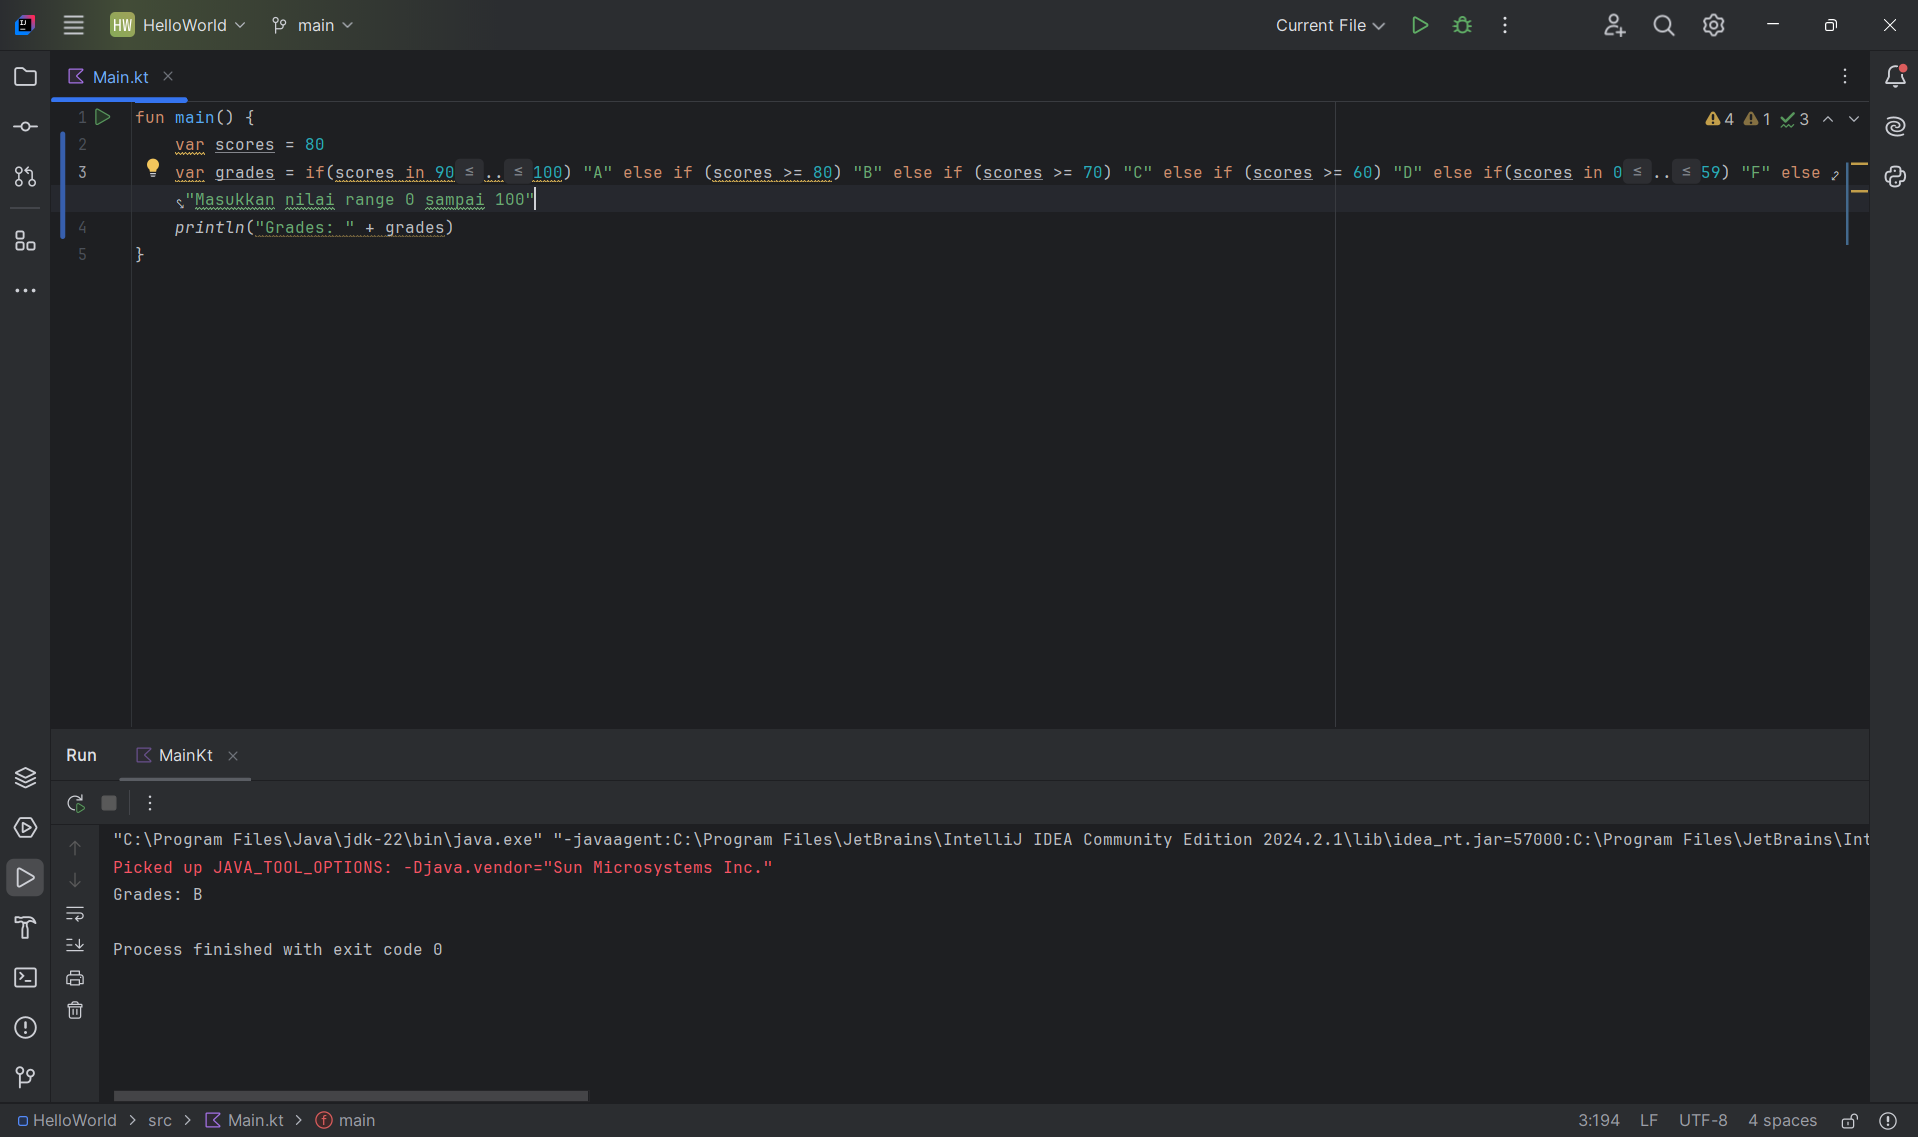
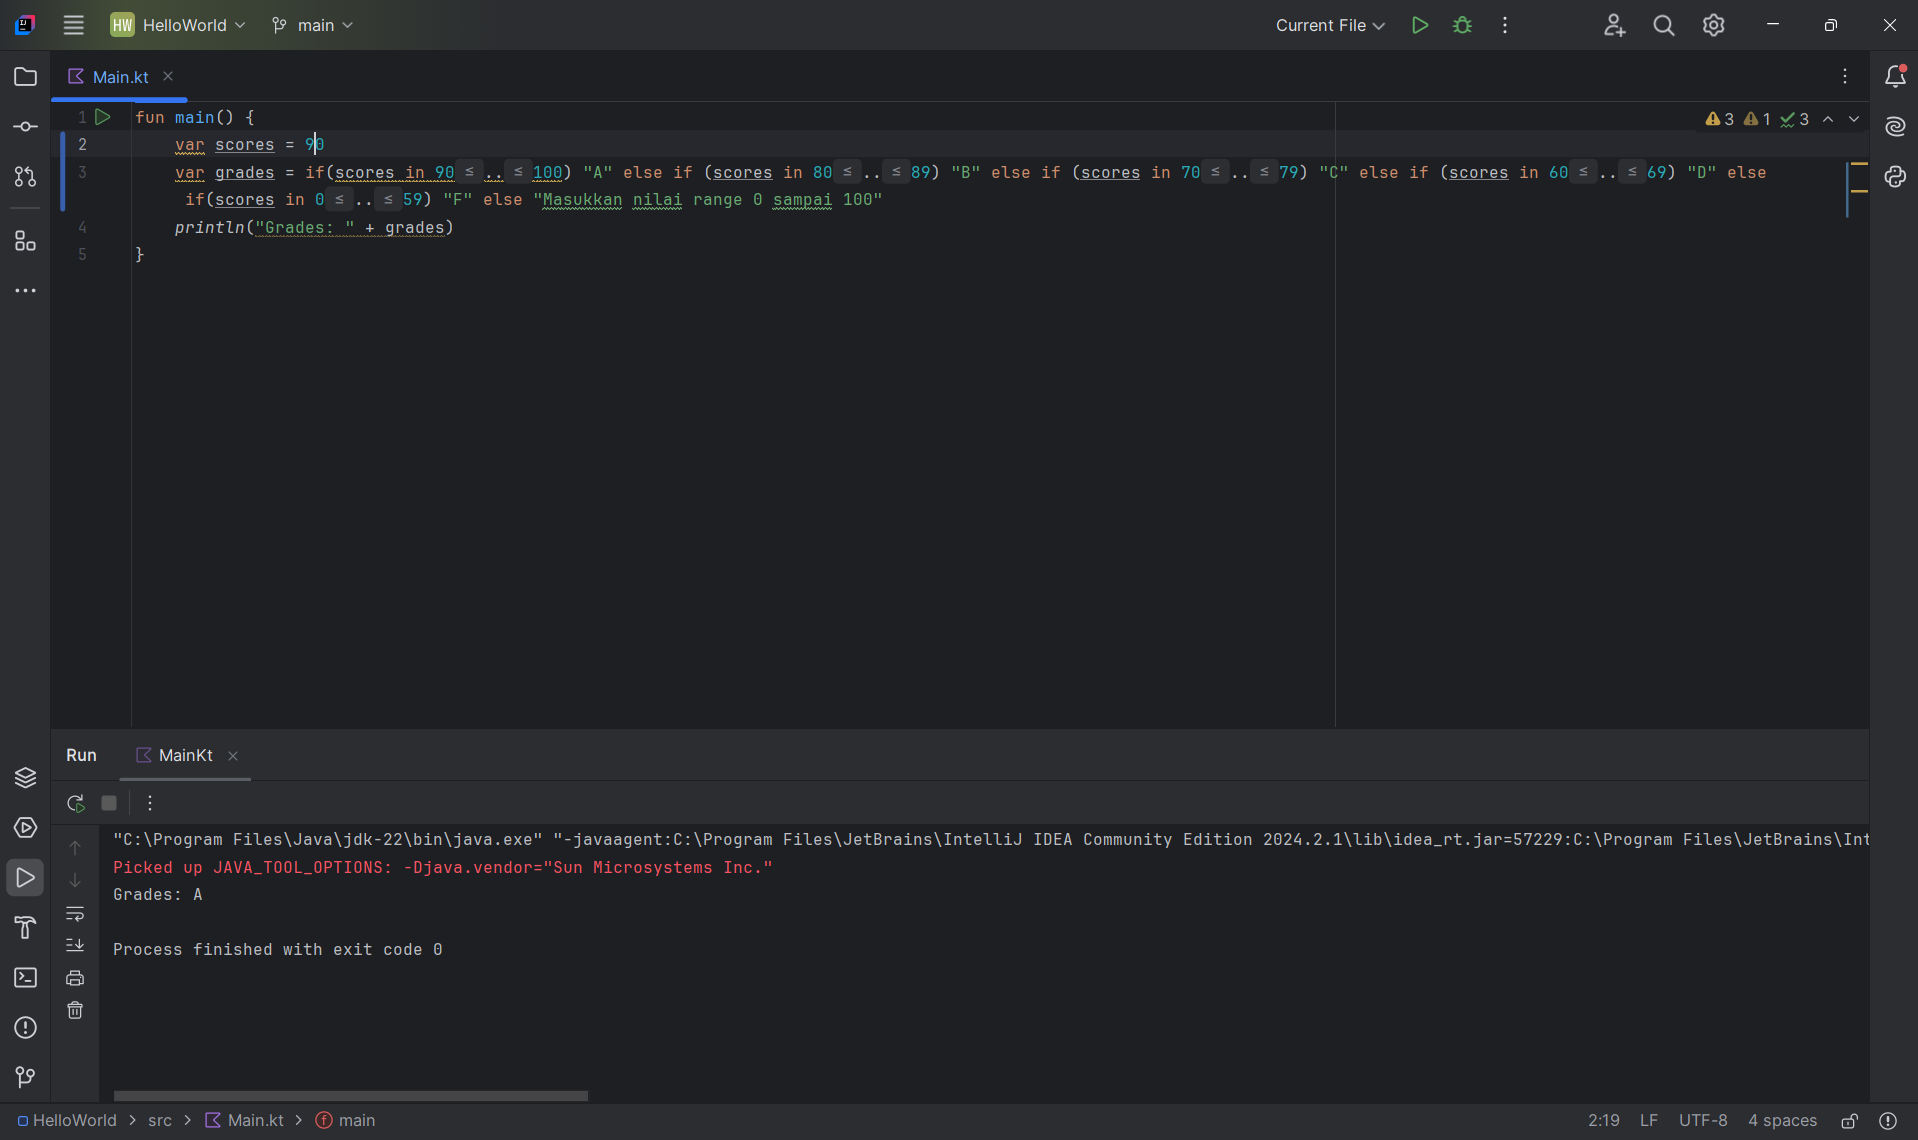
story-1 fix

diff --git a/exercise/day-1/HelloWorld/src/Main.kt b/exercise/day-1/HelloWorld/src/Main.kt
@@ -1,5 +1,5 @@
 fun main() {
-    var scores = 80
-    var grades = if(scores in 90..100) "A" else if (scores >= 80) "B" else if (scores >= 70) "C" else if (scores >= 60) "D" else if(scores in 0..59) "F" else "Masukkan nilai range 0 sampai 100"
+    var scores = 90
+    var grades = if(scores in 90..100) "A" else if (scores in 80..89) "B" else if (scores in 70..79) "C" else if (scores in 60..69) "D" else if(scores in 0..59) "F" else "Masukkan nilai range 0 sampai 100"
     println("Grades: " + grades)
 }
